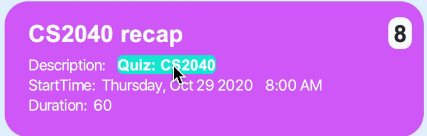
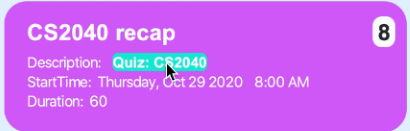
Resize images to match text size

diff --git a/docs/UserGuide.md b/docs/UserGuide.md
@@ -181,14 +181,15 @@ Refer to the picture of the quiz window for how the quiz is displayed below:
 
 Format: `quiz <flset:setindex>`
 
-Alternatively, if you have a quiz task scheduled, 
-you may double-click the bright-colored `Quiz:<quizname>` label 
-contained in the description of the task (as shown below):
-
-![TaskQuizLabel](images/TaskQuizLabel.png)
-
 Examples: 
 `quiz flset:2`, `quiz flset:3`
+
+Alternatively, if you have a quiz task scheduled, 
+you may double-click the bright-colored `Quiz:<quizname>` label 
+contained in the description of the task as shown below 
+(see [Task list commands](#task-list-commands)):
+
+![TaskQuizLabel](images/TaskQuizLabel.png)
 
 #### Step 1
 When the quiz starts, as seen below, the question 
@@ -210,6 +211,7 @@ the correct answer will be displayed,
 and there will be the Instruction prompt to enter the next command, `c`, `w`, `refresh` or `cancel`.
 
 The image below shows the result when `ans:improves code quality and reduces bugs` is entered:
+
 ![AnswerShown](images/AnswerShown.png)
 
 Based on the correct answer displayed, you may evaluate the answer provided. 
